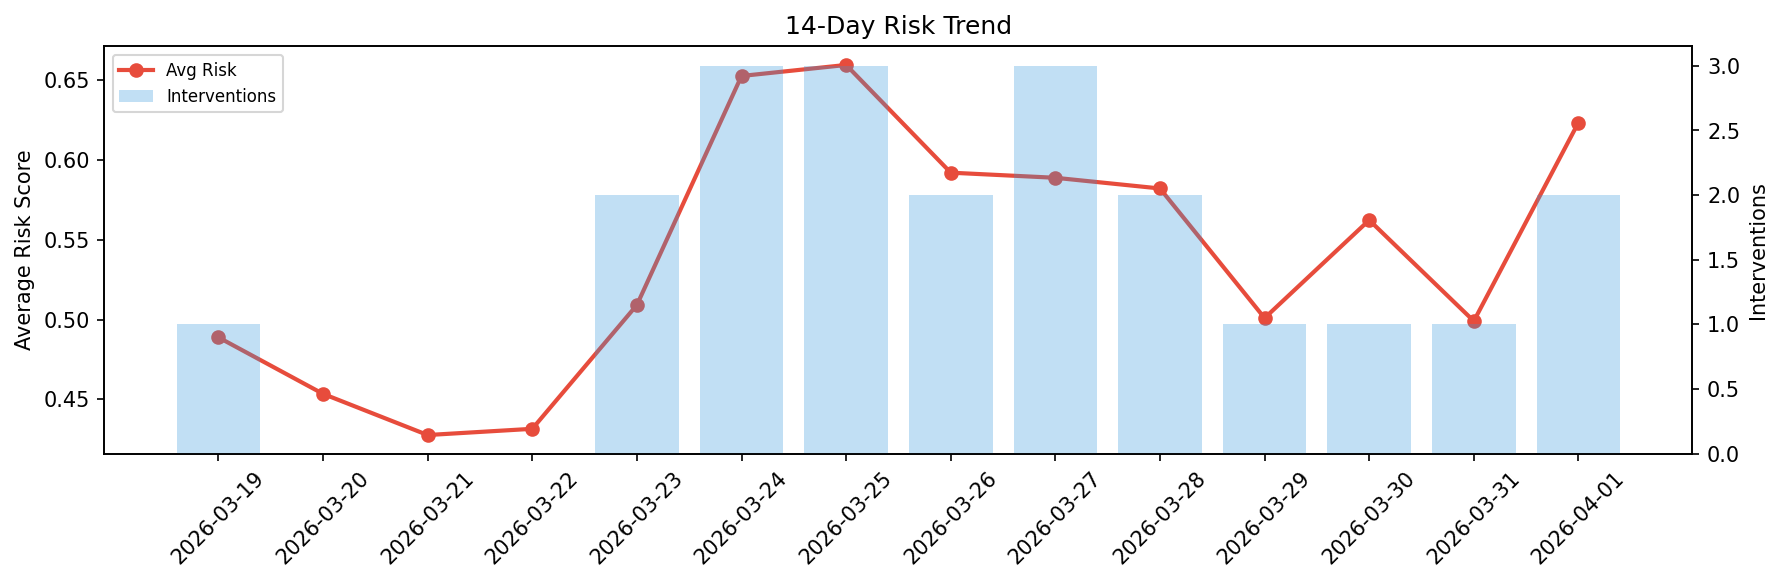
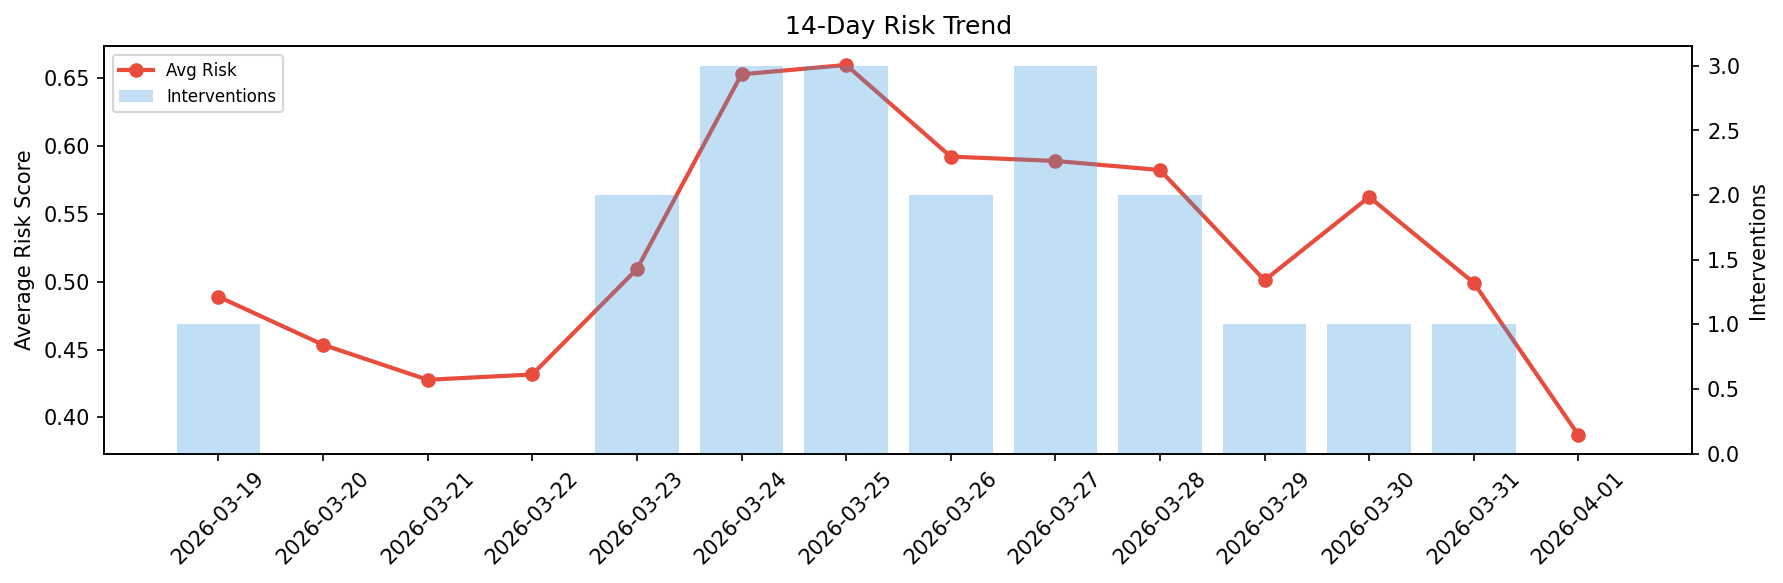
agent-improvement: daily cycle 2026-04-01T09:35

diff --git a/logs/2026-04-01.md b/logs/2026-04-01.md
@@ -1,6 +1,6 @@
 # Agent Improvement Report — 2026-04-01
 
-**Cycle ID:** `32faf58f` | **Avg Risk:** 0.6235 | **Interventions:** 2/4
+**Cycle ID:** `703b1751` | **Avg Risk:** 0.387 | **Interventions:** 0/4
 
 ![Dashboard](2026-04-01_dashboard.png)
 
@@ -10,18 +10,18 @@
 
 | Domain | Risk Score | Decision | Alerts |
 |--------|-----------|----------|--------|
-| code_review | 0.5433 | monitor | complexity |
-| incident_response | 0.6289 | intervene | mttr |
-| data_pipeline | 0.8243 | intervene | freshness |
-| deployment | 0.4976 | monitor | none |
+| code_review | 0.4562 | monitor | coverage |
+| incident_response | 0.1847 | monitor | none |
+| data_pipeline | 0.3167 | monitor | none |
+| deployment | 0.5903 | monitor | none |
 
 ## Delta vs Yesterday
 
 | Domain | Today | Yesterday | Change |
 |--------|-------|-----------|--------|
-| code_review | 0.5433 | 0.3567 | 📈 52.3% |
-| incident_response | 0.6289 | 0.5528 | 📈 13.8% |
-| data_pipeline | 0.8243 | 0.673 | 📈 22.5% |
-| deployment | 0.4976 | 0.4138 | 📈 20.3% |
+| code_review | 0.4562 | 0.3567 | 📈 27.9% |
+| incident_response | 0.1847 | 0.5528 | 📉 -66.6% |
+| data_pipeline | 0.3167 | 0.673 | 📉 -52.9% |
+| deployment | 0.5903 | 0.4138 | 📈 42.7% |
 
-**Refinement:** `{'adjustment': 'maintain', 'trend': 'improving', 'window': 4}`
+**Refinement:** `{'adjustment': 'tighten_thresholds', 'trend': 'degrading', 'window': 4}`
